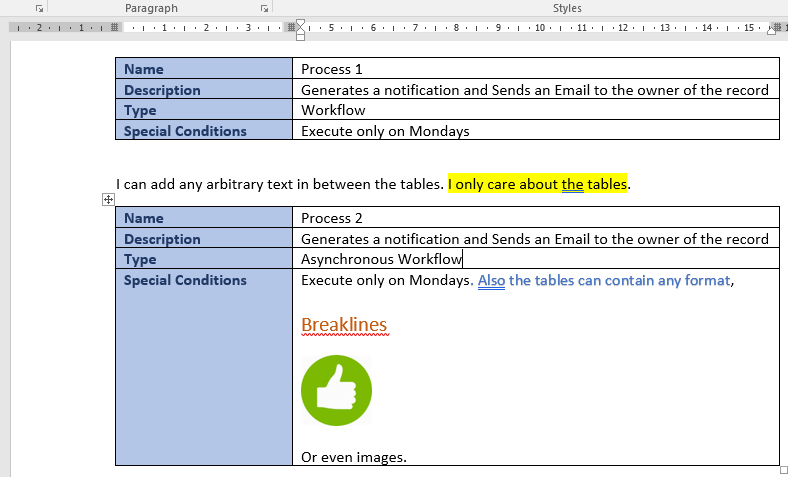
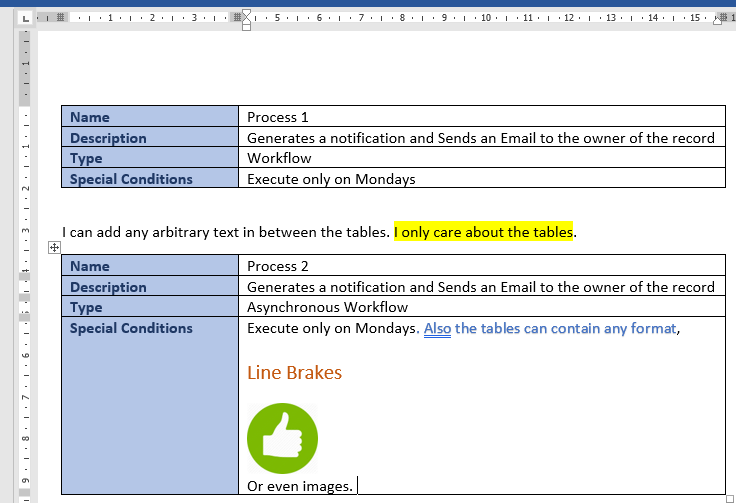
Updated documentation and tests

diff --git a/README.md b/README.md
@@ -7,23 +7,23 @@ Converts Specifications written in Microsoft Word to a Json file
 
 As developers, most of the time we receive our specifications/requirements from the Business in Word Documents.
 
-When we work in agile environments, the requirements are usually divided in smaller user stories, so these documents are not so long. But, wheather we like it or not, there are still a lot of Waterwall style projects out there. 
+When we work in agile environments, the requirements are usually divided in smaller user stories, so these documents are not so long. But, whether we like it or not, there are still a lot of Waterfall style projects out there. 
 
-In Waterfall methodologies, the documents are not so short, as all the requirements are gathered first, and when they are mature enought, they are released to the development team.
+In Waterfall methodologies, the documents are not so short, as all the requirements are gathered first, and when they are mature enough, they are released to the development team.
 
-Very often, these documents contains a lot of information that has to be translated into code, data models, configurations, etc.
+Very often, these documents contains a lot of information that has to be translated into code, data models, configurations and all sort of software pieces that are stick together to create the desired system. 
 
-Sometimes, the development team has to go through it copying its contents into code, database scripts, configuration data, user automated tests, or whatever is required to convert the specifications into something useful.
+The development team has to go through it copying the user story contents into code, database scripts, configuration data, user automated tests, or whatever is required to convert the specifications into something useful.
 
-But, wouldn't it be great if we somehow can extract what is written in those documents, and automatically convert it into software? Wouldn't that increase our productivity and reduce the errors introduced by manual tasks?
+But, wouldn't it be great if we somehow can extract what is written in those documents and automatically convert them into software? Wouldn't that increase our productivity and reduce the errors introduced by manual tasks?
 
-Even more, what if we could agree on a few Word templates, where the Business Analists/Product Owners can write the specifications in a way that is human readable AND machine processable at the same time?
+Even more, what if we could agree on a few Word templates, where the Business Analysts/Product Owners can write the specifications in a way that is human readable AND machine processable at the same time?
 
 That is exactly the goal of WordMarkdown. 
 
 Using a couple of Word features; tables and paragraph outlines, we are able to structure the information in a way that can be converted into a Json document. 
 
-The Json format is a standar format that is easily readable and processed by any program, to generate code or perform any other automated activities. 
+The Json format is a standard format that is easily readable and processed by any program, to generate code or perform any other automated activities. 
 
 Let's see some examples. Say for example the following table:
 
@@ -60,13 +60,13 @@ The generated Json would be:
     "Name": "Process 2",
     "Description": "Generates a notification and Sends an Email to the owner of the record",
     "Type": "Asynchronous Workflow",
-    "Special Conditions": "Execute only on Mondays. Also the tables can contain any format, BreaklinesOr even images. "
+    "Special Conditions": "Execute only on Mondays. Also the tables can contain any format, Line BrakesOr even images. "
   }
 ]
 ```
 That's cool, but how can I combine this and the paragraph outlines?
 
-The paragraph outlines are a style property availabe in Microsoft Word that lets you organize any document in chapters and sub chapters. You can explore the sections using the Navigation Panel.
+The paragraph outlines are a style property available in Microsoft Word that lets you organize any document in chapters and sub chapters. You can explore the sections using the Navigation Panel.
 
 ![Example 3](doc/Table3.png)
 
@@ -94,3 +94,28 @@ The paragraph outlines are a style property availabe in Microsoft Word that lets
   }
 }
 ```
+These are all very simple examples, and in real life things get more complicated. But it is a beginning and a work in progress. 
+
+I see this as a tool to close the gap between Business Analysts and Developers, where all the hard work made by former can be more effectively reutilized, without asking them to learn new tools or programming languages. We can all work in the tools we already know very well; Office tools for Business people, and programming languages for developers. 
+
+TBC
+
+# How to generate code fom JSon
+
+TBC
+
+# Language specification
+
+TBC
+
+# How to install
+
+TBC
+
+# How to use it
+
+TBC
+
+# Backlog
+
+TBC
